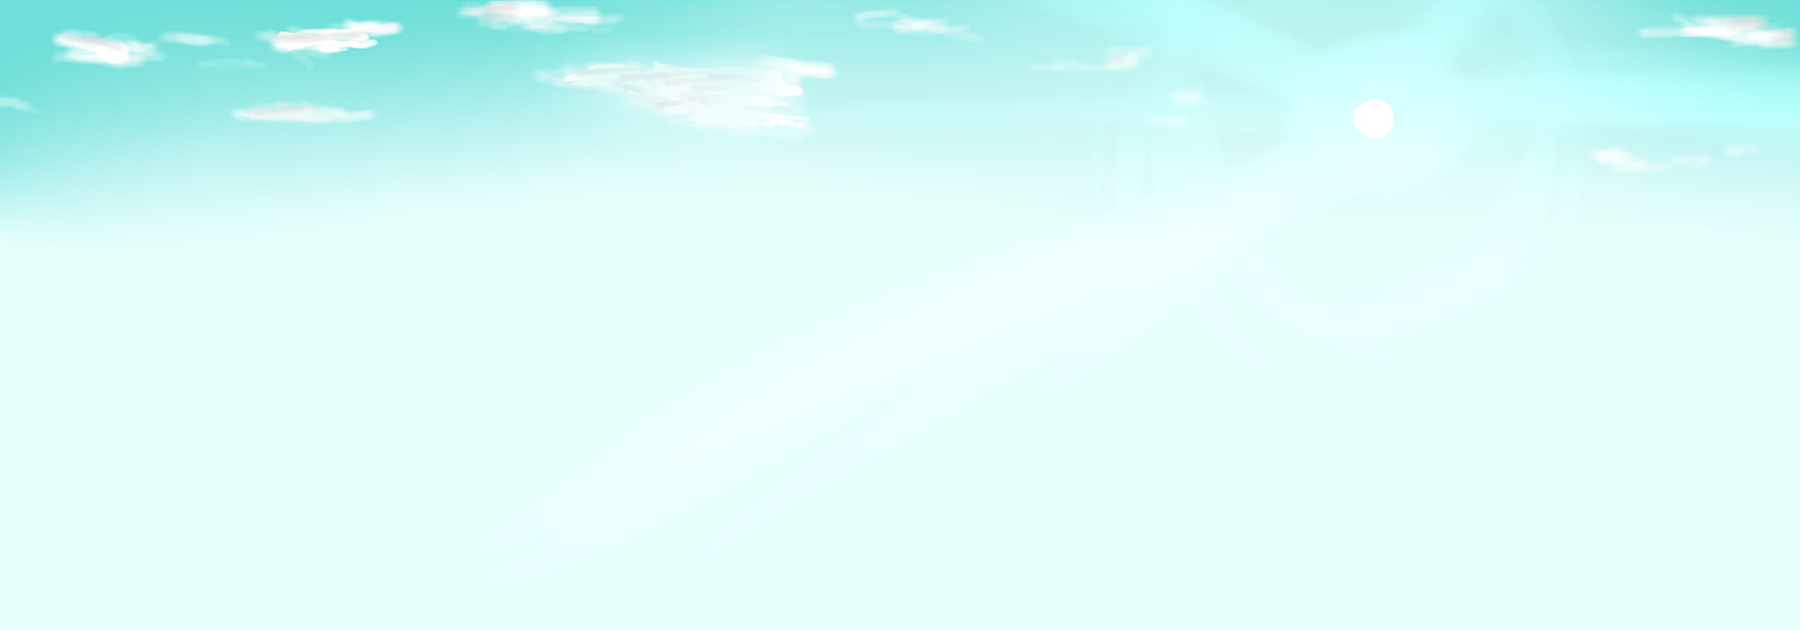
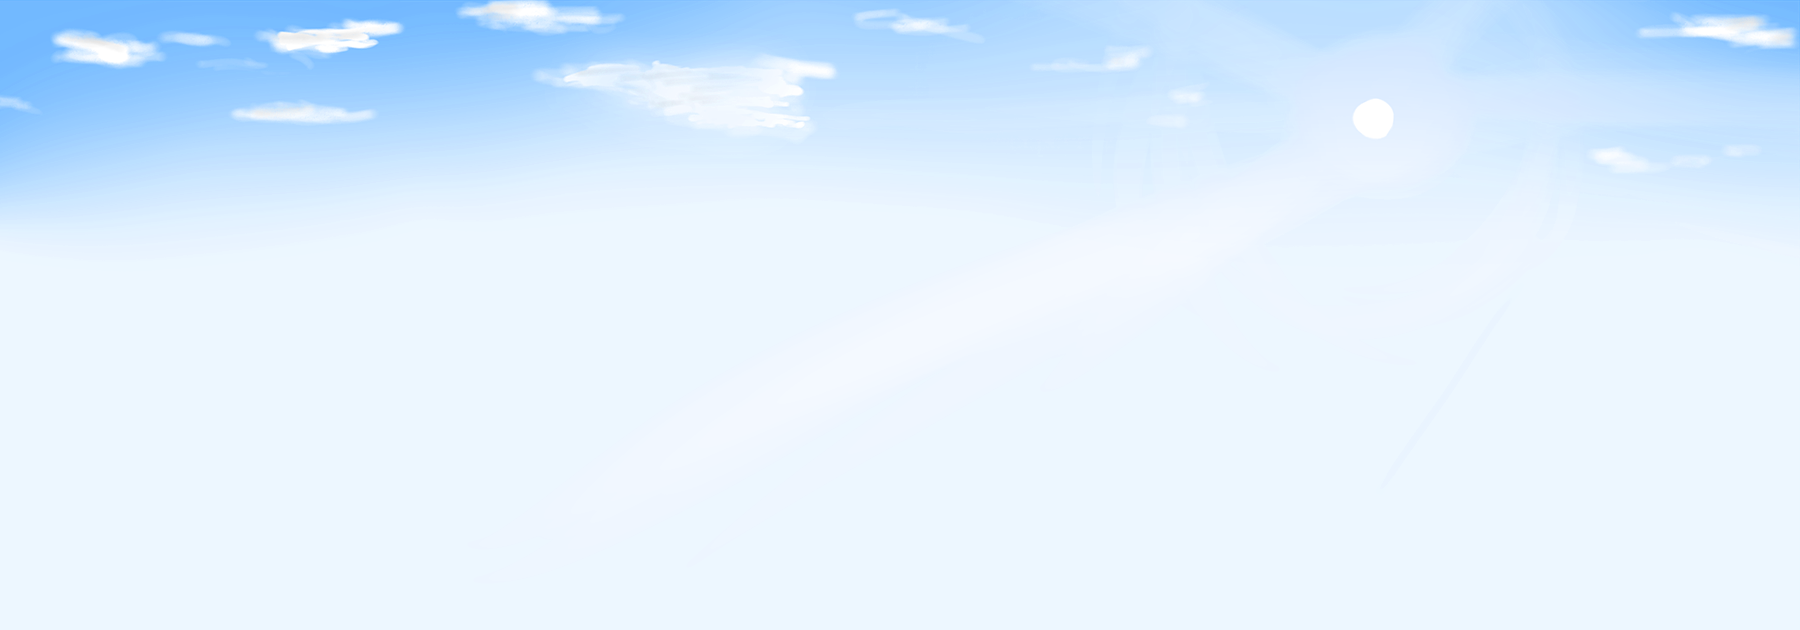
一符完成

Changed region(s): [[0.0, 0.0, 0.6844, 0.2714], [0.8089, 0.0, 1.0, 0.2111], [0.7467, 0.0302, 0.8089, 0.0905]]

diff --git a/src/Boss.cpp b/src/Boss.cpp
@@ -9,6 +9,8 @@
 #include "GameUI.h"
 #include "Player.h"
 #include "SCClock.h"
+typedef void(*SCBg)(int cnt,Snow::Bundle<256>&);
+extern SCBg scbgs [];
 using namespace Snow;
 
 void Boss::LoadRV(const std::string& s,const std::string& basePath,int* cnt)
@@ -52,6 +54,7 @@ void Boss::LoadRV(const std::string& s,const std::string& basePath,int* cnt)
     do{
         int boolTmp;
         csv.PopInt(boolTmp);
+        if(boolTmp == 2) continue;
         sc.isSpellCard = boolTmp;
         if(sc.isSpellCard) ++m_spellCardNum;
         sc.endTime = -1;
@@ -60,6 +63,11 @@ void Boss::LoadRV(const std::string& s,const std::string& basePath,int* cnt)
         csv.PopStr(sc.title);
         csv.PopInt(sc.scPartten);
         csv.PopInt(sc.bgPartten);
+        if(sc.bgPartten!= -1) {
+            sc.scBgData = new Snow::Bundle<256>;
+            sc.scBgData->ResetPtr();
+            (*scbgs[sc.bgPartten])(-1,*sc.scBgData);
+        }
         m_spellCards.push(sc);
     }while(csv.NextLine());
     if(!m_conversation.empty()){
@@ -152,6 +160,12 @@ void Boss::OnNext()
         m_cnt_begin = -1;
         bulletMgr.Clear();
         m_bullets.clear();
+        if(m_spellCards.front().bgPartten != -1){
+            m_spellCards.front().scBgData->ResetPtr();
+            (*scbgs[m_spellCards.front().bgPartten])(-2,*m_spellCards.front().scBgData);
+            delete m_spellCards.front().scBgData;
+        }
+
         m_spellCards.pop();
         m_bouns = true;
         gameUI.UpdateSCHP(1.0);
@@ -199,13 +213,13 @@ void Boss::OnConersationFinished()
     m_endTime = m_spellCards.front().endTime;
 }
 
-typedef void(*SCBg)(int cnt);
-extern SCBg scbgs [];
+
 void Boss::OnSCBGDraw()
 {
     if(!m_collEnable || m_spellCards.empty()) return;
     if(m_live && m_spellCards.front().bgPartten != -1 && m_cnt_begin != -1){
-        (*scbgs[m_spellCards.front().bgPartten])(*m_mainCnt-m_cnt_begin);
+        m_spellCards.front().scBgData->ResetPtr();
+        (*scbgs[m_spellCards.front().bgPartten])(*m_mainCnt-m_cnt_begin,*m_spellCards.front().scBgData);
     }
 }
 
@@ -213,5 +227,9 @@ Boss::~Boss()
 {
     for(int i = 0;i < 10;++i)
         SDL_DestroyTexture(m_images[i]);
+    while(!m_spellCards.empty()){
+        if(m_spellCards.front().bgPartten != -1) delete m_spellCards.front().scBgData;
+        m_spellCards.pop();
+    }
 }
 

diff --git a/src/SCPartten/Stage1L.cpp b/src/SCPartten/Stage1L.cpp
@@ -39,10 +39,57 @@ void SC410(Boss* b,int cnt,int scnt,int& image,double& boss_x,double& boss_y,dou
         boss_x = ai.o_x + (ai.trg_x-ai.o_x)*per;
         boss_y = ai.o_y+ (ai.trg_y-ai.o_y)*per;
     }
+}
 
+void SC411(Boss* b,int cnt,int scnt,int& image,double& boss_x,double& boss_y,double& boss_spd,double& boss_aspd,double& boss_angle,double hp,const std::vector<int>& bullets,Snow::Bundle<256>& data){
+    //子弹加速度
+    for(int i:bullets) BltSpd(i) += 0.1;
+
+    //从大妖精位置发出彩色光芒
+    int kcnt;
+
+    struct DaiAI{
+        bool ismoving;
+        int trg_x,trg_y,o_x,o_y;
+        int beg_cnt;
+    }ai;
+    if(scnt <= 1){
+        kcnt = 0;
+        ai.ismoving = true;
+        ai.trg_x = 875;
+        ai.trg_y = 262;
+        ai.o_x = boss_x;
+        ai.o_y = boss_y;
+        ai.beg_cnt = scnt;
+    }else{
+        data.Read<int>(kcnt);
+        data.Read<DaiAI>(ai);
+        ++kcnt;
+        if(kcnt >= 10 && kcnt <= 100){
+            for(int i = 0; i < 5;++i){
+                double ang = Rand()*2*M_PI;
+                int num = SCCreateBlt(b,boss_x+40,boss_y+40,ang,0.1,0,20+Rand()*8);
+                BltSelfAngle(num) =ang;
+            }
+        }
+        if(kcnt >= 200) kcnt = 10;
+
+        if(ai.ismoving){
+            float per = ACGCross::ArcFunc(float(scnt - ai.beg_cnt)/60);
+            if(per >= 1 || per <= 0) {ai.ismoving = false;}
+            else{
+                boss_x = ai.o_x + (ai.trg_x-ai.o_x)*per;
+                boss_y = ai.o_y+ (ai.trg_y-ai.o_y)*per;
+            }
+        }
+    }
+    data.ResetPtr();
+    data.Write<int>(kcnt);
+    data.Write<DaiAI>(ai);
 }
 
 void ScParttenInit_Stage1L(){
     scPartten[410] = &SC410;
+    scPartten[411] = &SC411;
 }
 

diff --git a/src/SCBackground/ScBgp.cpp b/src/SCBackground/ScBgp.cpp
@@ -1,0 +1,40 @@
+#include "Snow.h"
+#include "Snow/Debug.h"
+#include "Tools.h"
+using namespace Snow;
+typedef void(*SCBg)(int cnt,Bundle<256>&);
+extern SCBg scbgs [80];
+
+/* 特别的cnt == -1时要求初始化，
+    cnt == -2时要求终期化。
+*/
+void SCBG11(int cnt,Bundle<256>& data){
+    struct ScbgData11{
+        SDL_Texture* tex[5];
+        int inii;
+    }sc;
+    data.ResetPtr();
+    data.Read<ScbgData11>(sc);
+    if(cnt == -1){
+        sc.inii = 1211;
+        for(int i = 1;i <= 5;++i){
+            sc.tex[i-1] = LoadPic("Stage/Stage1/Daiyousei/SCBG/"+std::to_string(i)+".png");
+        }
+    }
+    else if(cnt == -2){
+        for(int i = 0;i < 5;++i){
+            SDL_DestroyTexture(sc.tex[i]);
+        }
+    }
+    else{
+        for(int i = 0;i < 5;++i){
+            SDL_RenderCopy(Snow::pRnd,sc.tex[i],nullptr,nullptr);
+        }
+    }
+    data.ResetPtr();
+    data.Write<ScbgData11>(sc);
+}
+
+void InitScBgs(){
+    scbgs[11] = &SCBG11;
+}

diff --git a/src/WSTGame.cpp b/src/WSTGame.cpp
@@ -86,7 +86,7 @@ void WSTGame::OnDraw()
     //m_p2.OnDraw();
     collWorld.Debug_DrawEnemy();
     //collWorld.Debug_DrawEnemyBullet();
-    //collWorld.Debug_DrawPlayer();
+    collWorld.Debug_DrawPlayer();
 
     /* Beater Sync Debug */
     /*if(beater.IsBeatFrame()){
@@ -183,6 +183,9 @@ void WSTGame::OnEvent(int p, Key k, bool b)
     }
     if(k == T_DBG_PNTCNT && b){
         PNT("F3--PRINT FRAME NUMBER:"<<stage.GetCnt());
+        int x,y;
+        SDL_GetMouseState(&x,&y);
+        PNT("MOUSE:"<<x<<","<<y);
         if(stage.GetBoss()){
             PNT("    BOSS FRAME:"<<stage.GetBoss()->GetCnt());
         }

diff --git a/src/Main.cpp b/src/Main.cpp
@@ -64,6 +64,9 @@ static void InitGameLogic(ACGCross::Logo* acgclogo){
 int main(int argc,char** argv){
     Init();
     InitParttens();
+    extern void InitScBgs();
+    InitScBgs();
+
     SDL_SetHint(SDL_HINT_RENDER_SCALE_QUALITY,"2");
     SDL_SetHint(SDL_HINT_VIDEO_ALLOW_SCREENSAVER,"0");
     SDL_SetHint(SDL_HINT_RENDER_DIRECT3D_THREADSAFE,"1");

diff --git a/src/BulletMgr.cpp b/src/BulletMgr.cpp
@@ -78,7 +78,7 @@ void BulletMgr::Init()
             loadCircleBulletStyle(num,file.c_str(),r1,r2);
         }else if(shape[0] == 'R'){
             loadXRectBulletStyle(num,file.c_str(),r1,r2);
-        }
+        }else if(shape[0] == '#');
         ++num;
     }while(csv.NextLine());
 }
